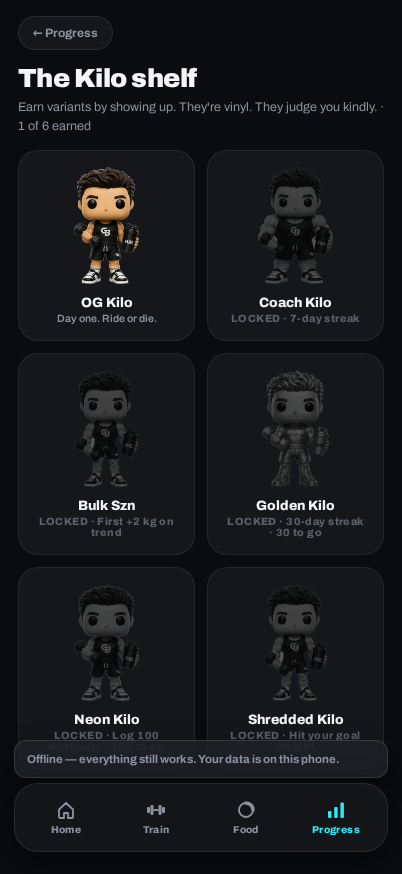
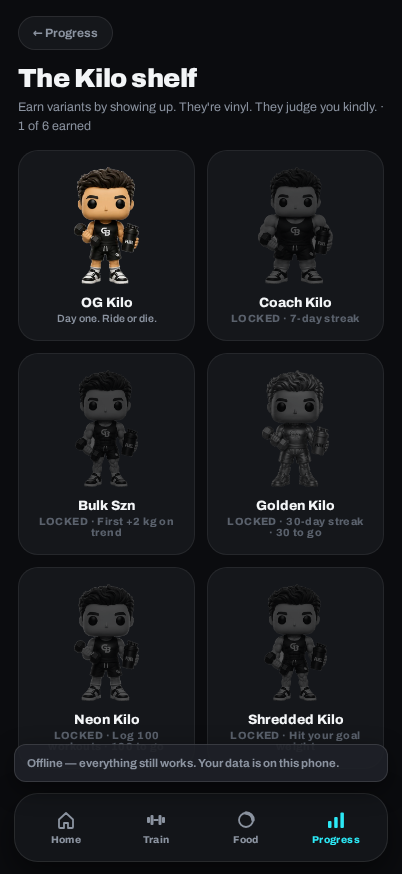
Fix dead space and content bleed below the tab bar on device
Reported from a real iPhone: a large empty gap under the tab bar, with
card content visibly scrolling through it.

Two causes, both invisible in desktop testing because Chromium reports
env(safe-area-inset-*) as 0:

- The design's 22px float was being ADDED to the 34px home-indicator
  inset, leaving 56px of dead space. The inset now replaces the float
  (max(12px, env(safe-area-inset-bottom))), so the bar sits 34px up on
  an iPhone and 12px elsewhere.
- Nothing masked the strip below the translucent bar, so cards showed
  through. Added a gradient-to-solid overlay on the shell (z-index 29,
  under the bar) that fades content out and makes the home-indicator
  strip solid.

PWA banners re-anchored to the same expression and raised above the new
overlay. Verified by simulating a 34px inset: gap 56px → 34px, no bleed
mid-scroll or at the end of a list.

Claude-Session: https://claude.ai/code/session_01S6gYZeQTZAeXg9ewX9BCE4

Changed region(s): [[0.0299, 0.8341, 0.9552, 0.9886]]

diff --git a/src/styles/global.css b/src/styles/global.css
@@ -50,6 +50,21 @@ button {
   overflow: hidden;
 }
 
+/* Fades scrolling content out beneath the floating tab bar and makes the
+   home-indicator strip solid — without it, cards show through the gap
+   below the translucent bar. */
+.phone-shell::after {
+  content: '';
+  position: absolute;
+  left: 0;
+  right: 0;
+  bottom: 0;
+  height: calc(max(12px, env(safe-area-inset-bottom)) + 84px);
+  background: linear-gradient(to bottom, transparent, var(--bg-app) 45%);
+  pointer-events: none;
+  z-index: 29;
+}
+
 .screen-scroll {
   flex: 1;
   overflow-y: auto;

diff --git a/src/components/PwaBanners.css b/src/components/PwaBanners.css
@@ -3,8 +3,9 @@
   position: absolute;
   left: 14px;
   right: 14px;
-  bottom: calc(96px + env(safe-area-inset-bottom));
-  z-index: 25;
+  /* Sits just above the tab bar (69px tall) at its new offset. */
+  bottom: calc(max(12px, env(safe-area-inset-bottom)) + 80px);
+  z-index: 31;
   display: flex;
   flex-direction: column;
   gap: 6px;

diff --git a/src/components/TabBar.css b/src/components/TabBar.css
@@ -2,7 +2,10 @@
   position: absolute;
   left: 14px;
   right: 14px;
-  bottom: calc(22px + env(safe-area-inset-bottom));
+  /* The design's 22px float assumed no safe-area inset. Stacking it on top
+     of a 34px home indicator left ~56px of dead space under the bar on
+     device, so the inset REPLACES the float rather than adding to it. */
+  bottom: max(12px, env(safe-area-inset-bottom));
   z-index: 30;
   display: flex;
   background: rgba(21, 23, 27, 0.86);